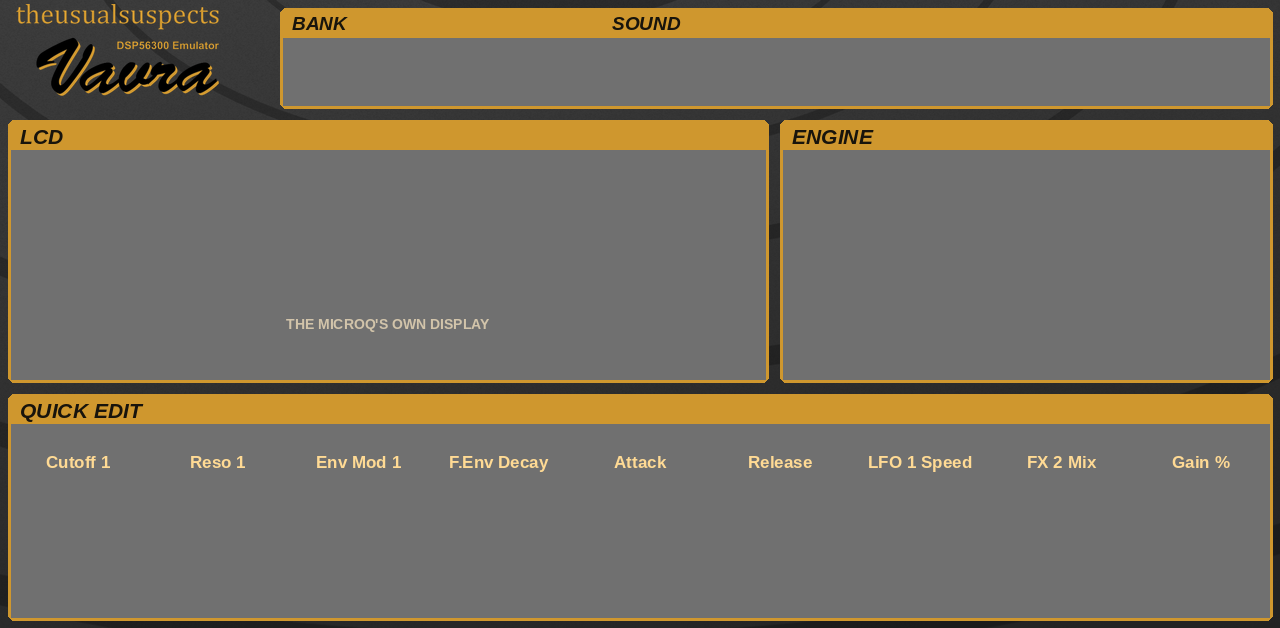
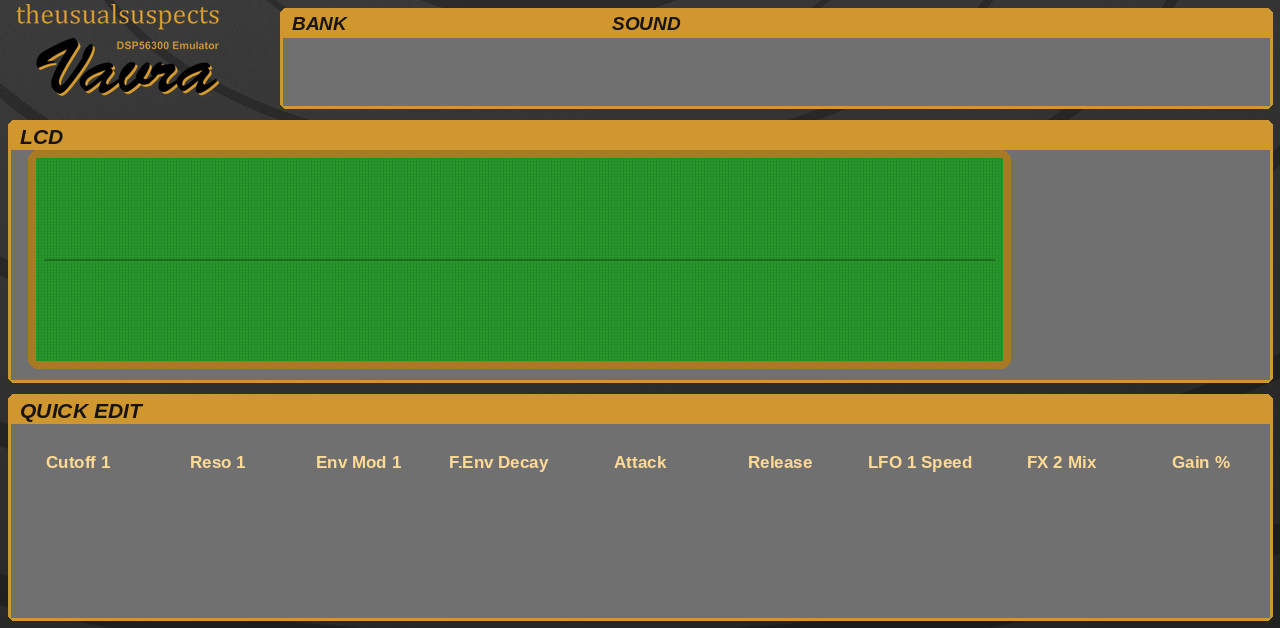
MAIN: LCD and engine status combined into one 4-line display
Claude-Session: https://claude.ai/code/session_01CpoP2q3VKQ5SkofMpVwNYz

Changed region(s): [[0.0, 0.1815, 0.8125, 0.6051]]

diff --git a/tools/make_skin.py b/tools/make_skin.py
@@ -196,15 +196,19 @@ def header(p):
 QUICK = ["F1Cutoff", "F1Resonance", "F1EnvMod", "FilterEnvDecay", "AmpEnvAttack", "AmpEnvRelease", "Lfo1Speed", "FX2Mix"]
 p = Page("MAIN", QUICK + ["gain"])
 header(p)
-p.panel(8, 120, 760, 262, "LCD")
-p.readout(388, 200, "lcd1", "", 620)
-p.readout(388, 262, "lcd2", "", 620)
-p.label(388, 316, "THE MICROQ'S OWN DISPLAY", 14, DIM)
-p.panel(780, 120, 492, 262, "ENGINE")
-p.readout(1026, 200, "loading_status", "", 460)
-p.readout(1026, 262, "engine_stats", "", 460)
-p.button(920, 334, "all_notes_off", "PANIC")
-p.button(1130, 334, "init_patch", "RELOAD")
+p.panel(8, 120, 1264, 262, "LCD")
+# one 4-line display: the microQ's own two lines, then Vavra's status and stats, in a single bezel
+p.d.rounded_rectangle((28, 150, 1010, 368), 10, fill=GOLD_DARK)
+p.d.rectangle((36, 158, 1002, 360), fill=(38, 144, 41))
+for yy in range(160, 360, 3):                       # the LCD's dot rows
+    p.d.line((36, yy, 1002, yy), fill=(44, 154, 47))
+for xx in range(38, 1002, 3):
+    p.d.line((xx, 158, xx, 360), fill=(35, 136, 38))
+p.d.line((44, 259, 994, 259), fill=(30, 110, 33), width=2)     # the microQ's two lines above, Vavra's below
+for i, k in enumerate(("lcd1", "lcd2", "loading_status", "engine_stats")):
+    p.widgets.append('readout cx=519 cy=%d w=950 h=40 label="" key=%s box=0 tsize=24 tcolor=08200a tweight=700' % (184 + i * 50 + Y86, k))
+p.button(1140, 210, "all_notes_off", "PANIC")
+p.button(1140, 300, "init_patch", "RELOAD")
 p.panel(8, 394, 1264, 226, "QUICK EDIT", solid=True)
 p.inv = FLAT is not None
 p.row(8, 1272, 520, [("F1Cutoff", "Cutoff 1"), ("F1Resonance", "Reso 1"), ("F1EnvMod", "Env Mod 1"), ("FilterEnvDecay", "F.Env Decay"),
